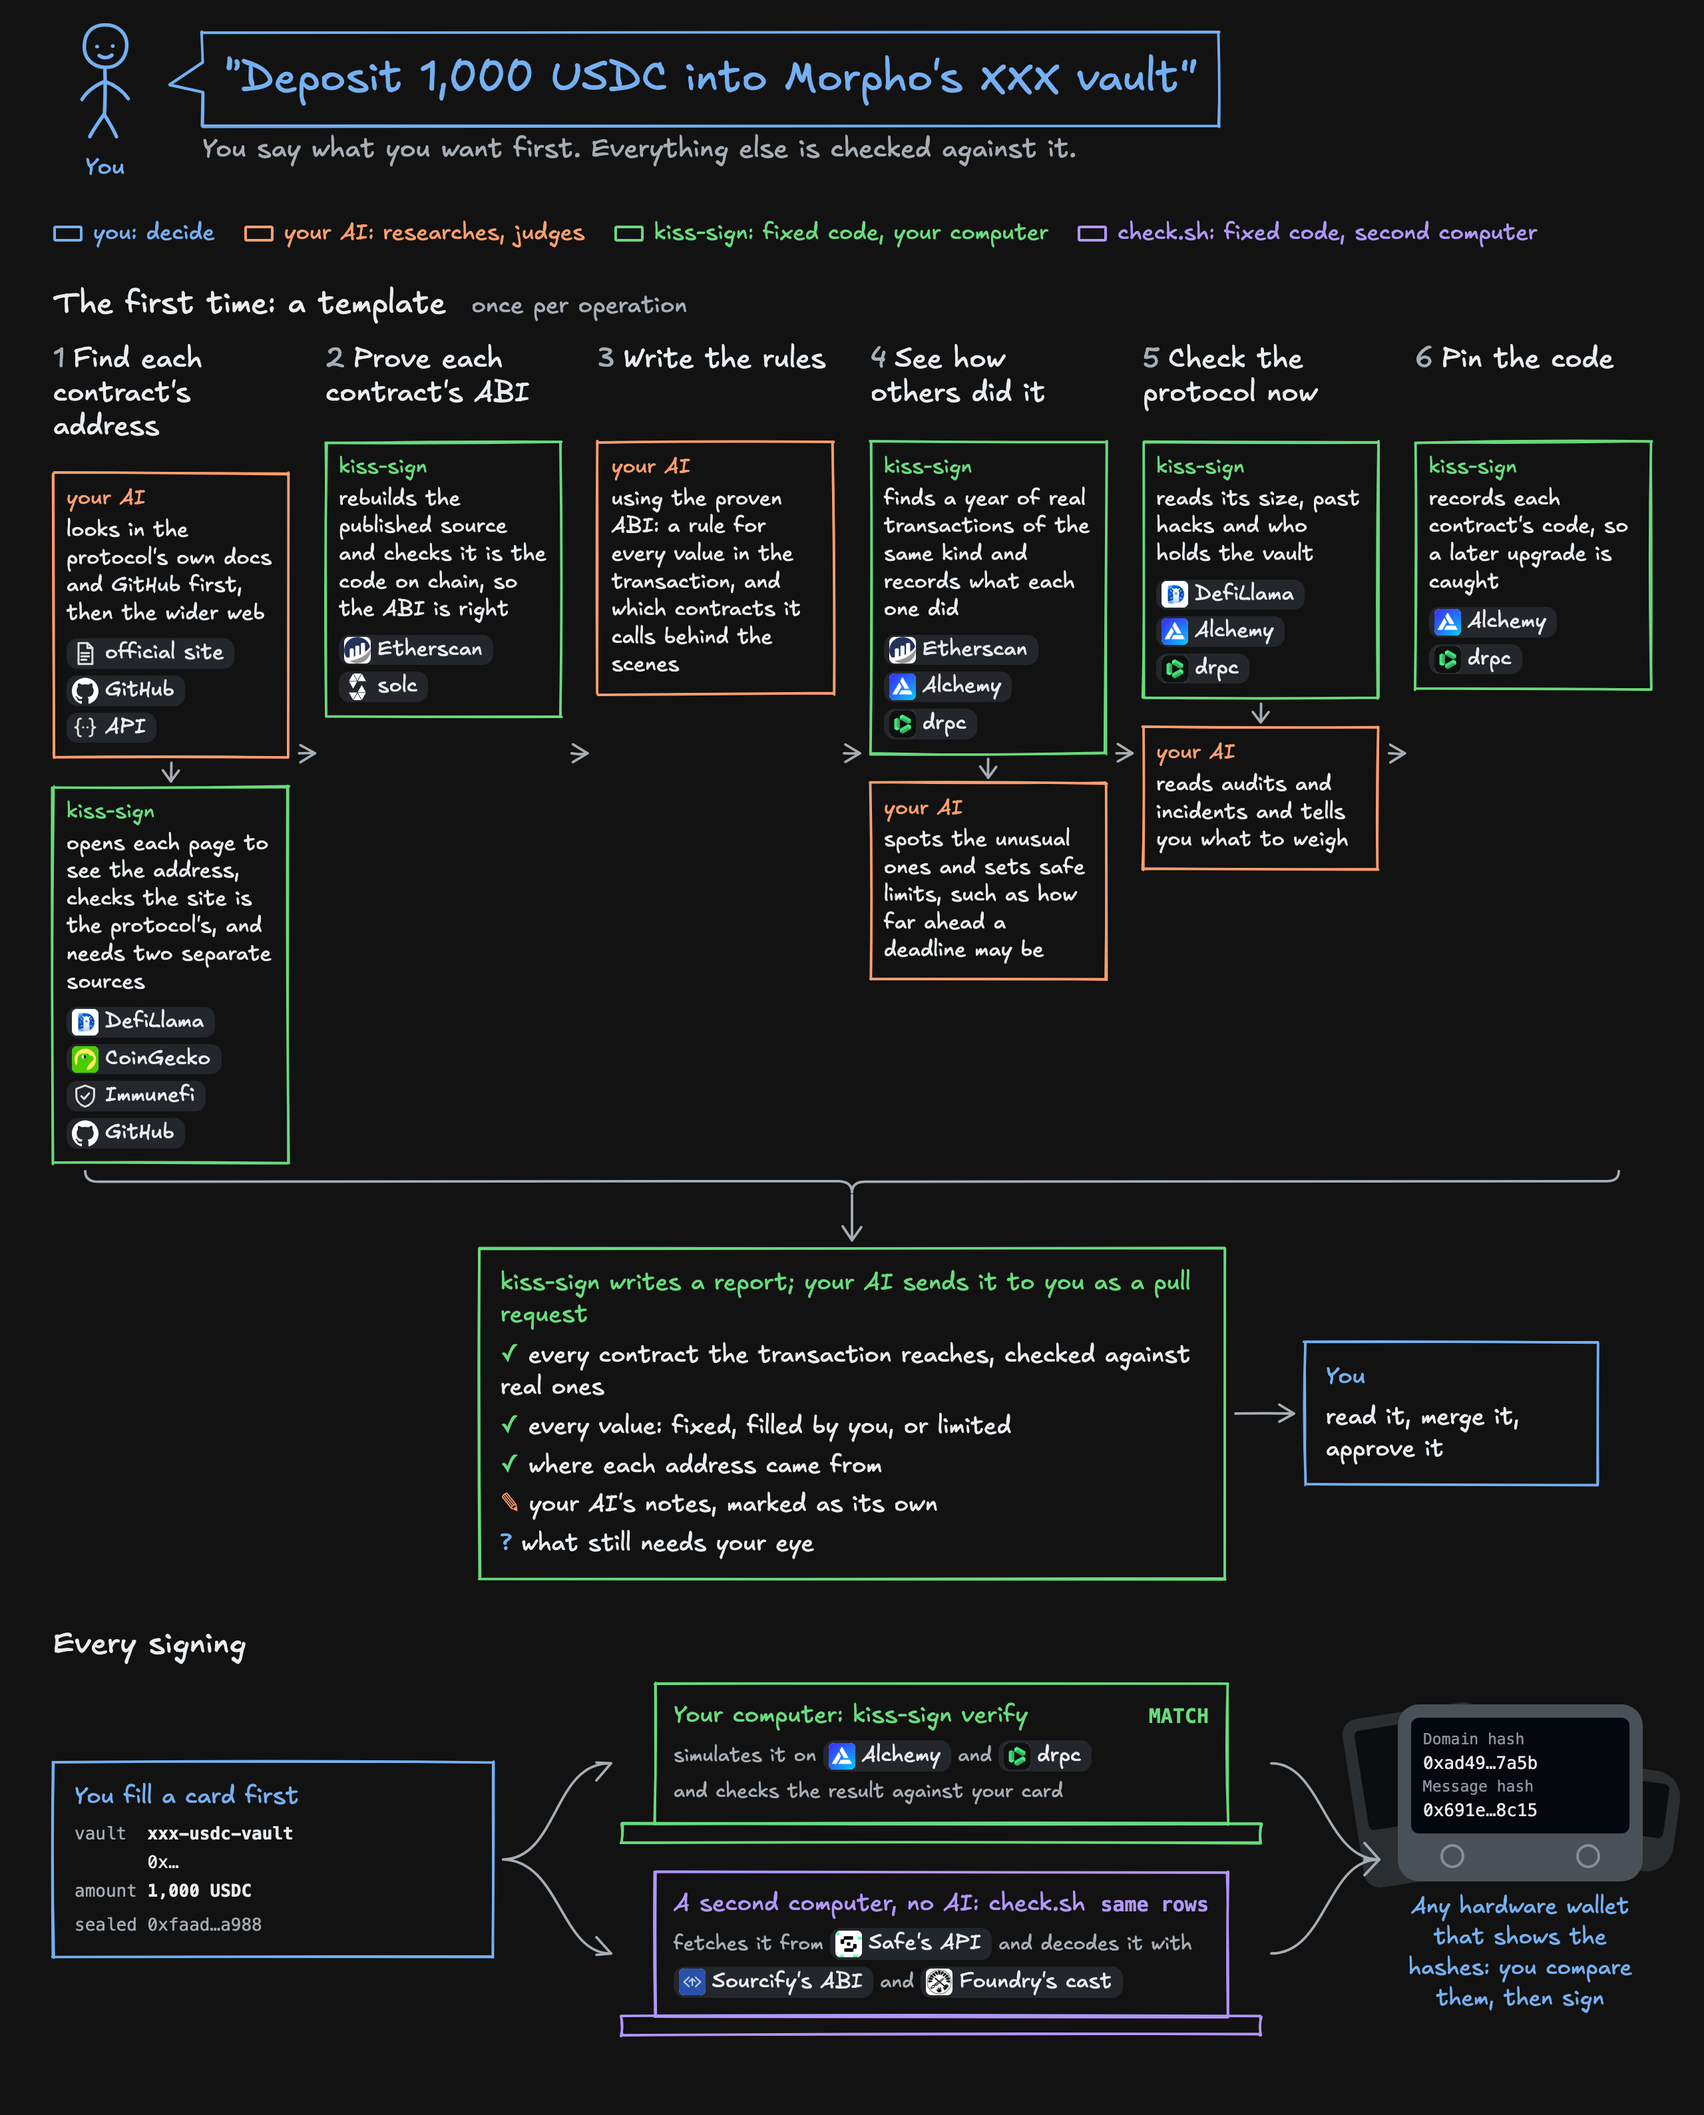
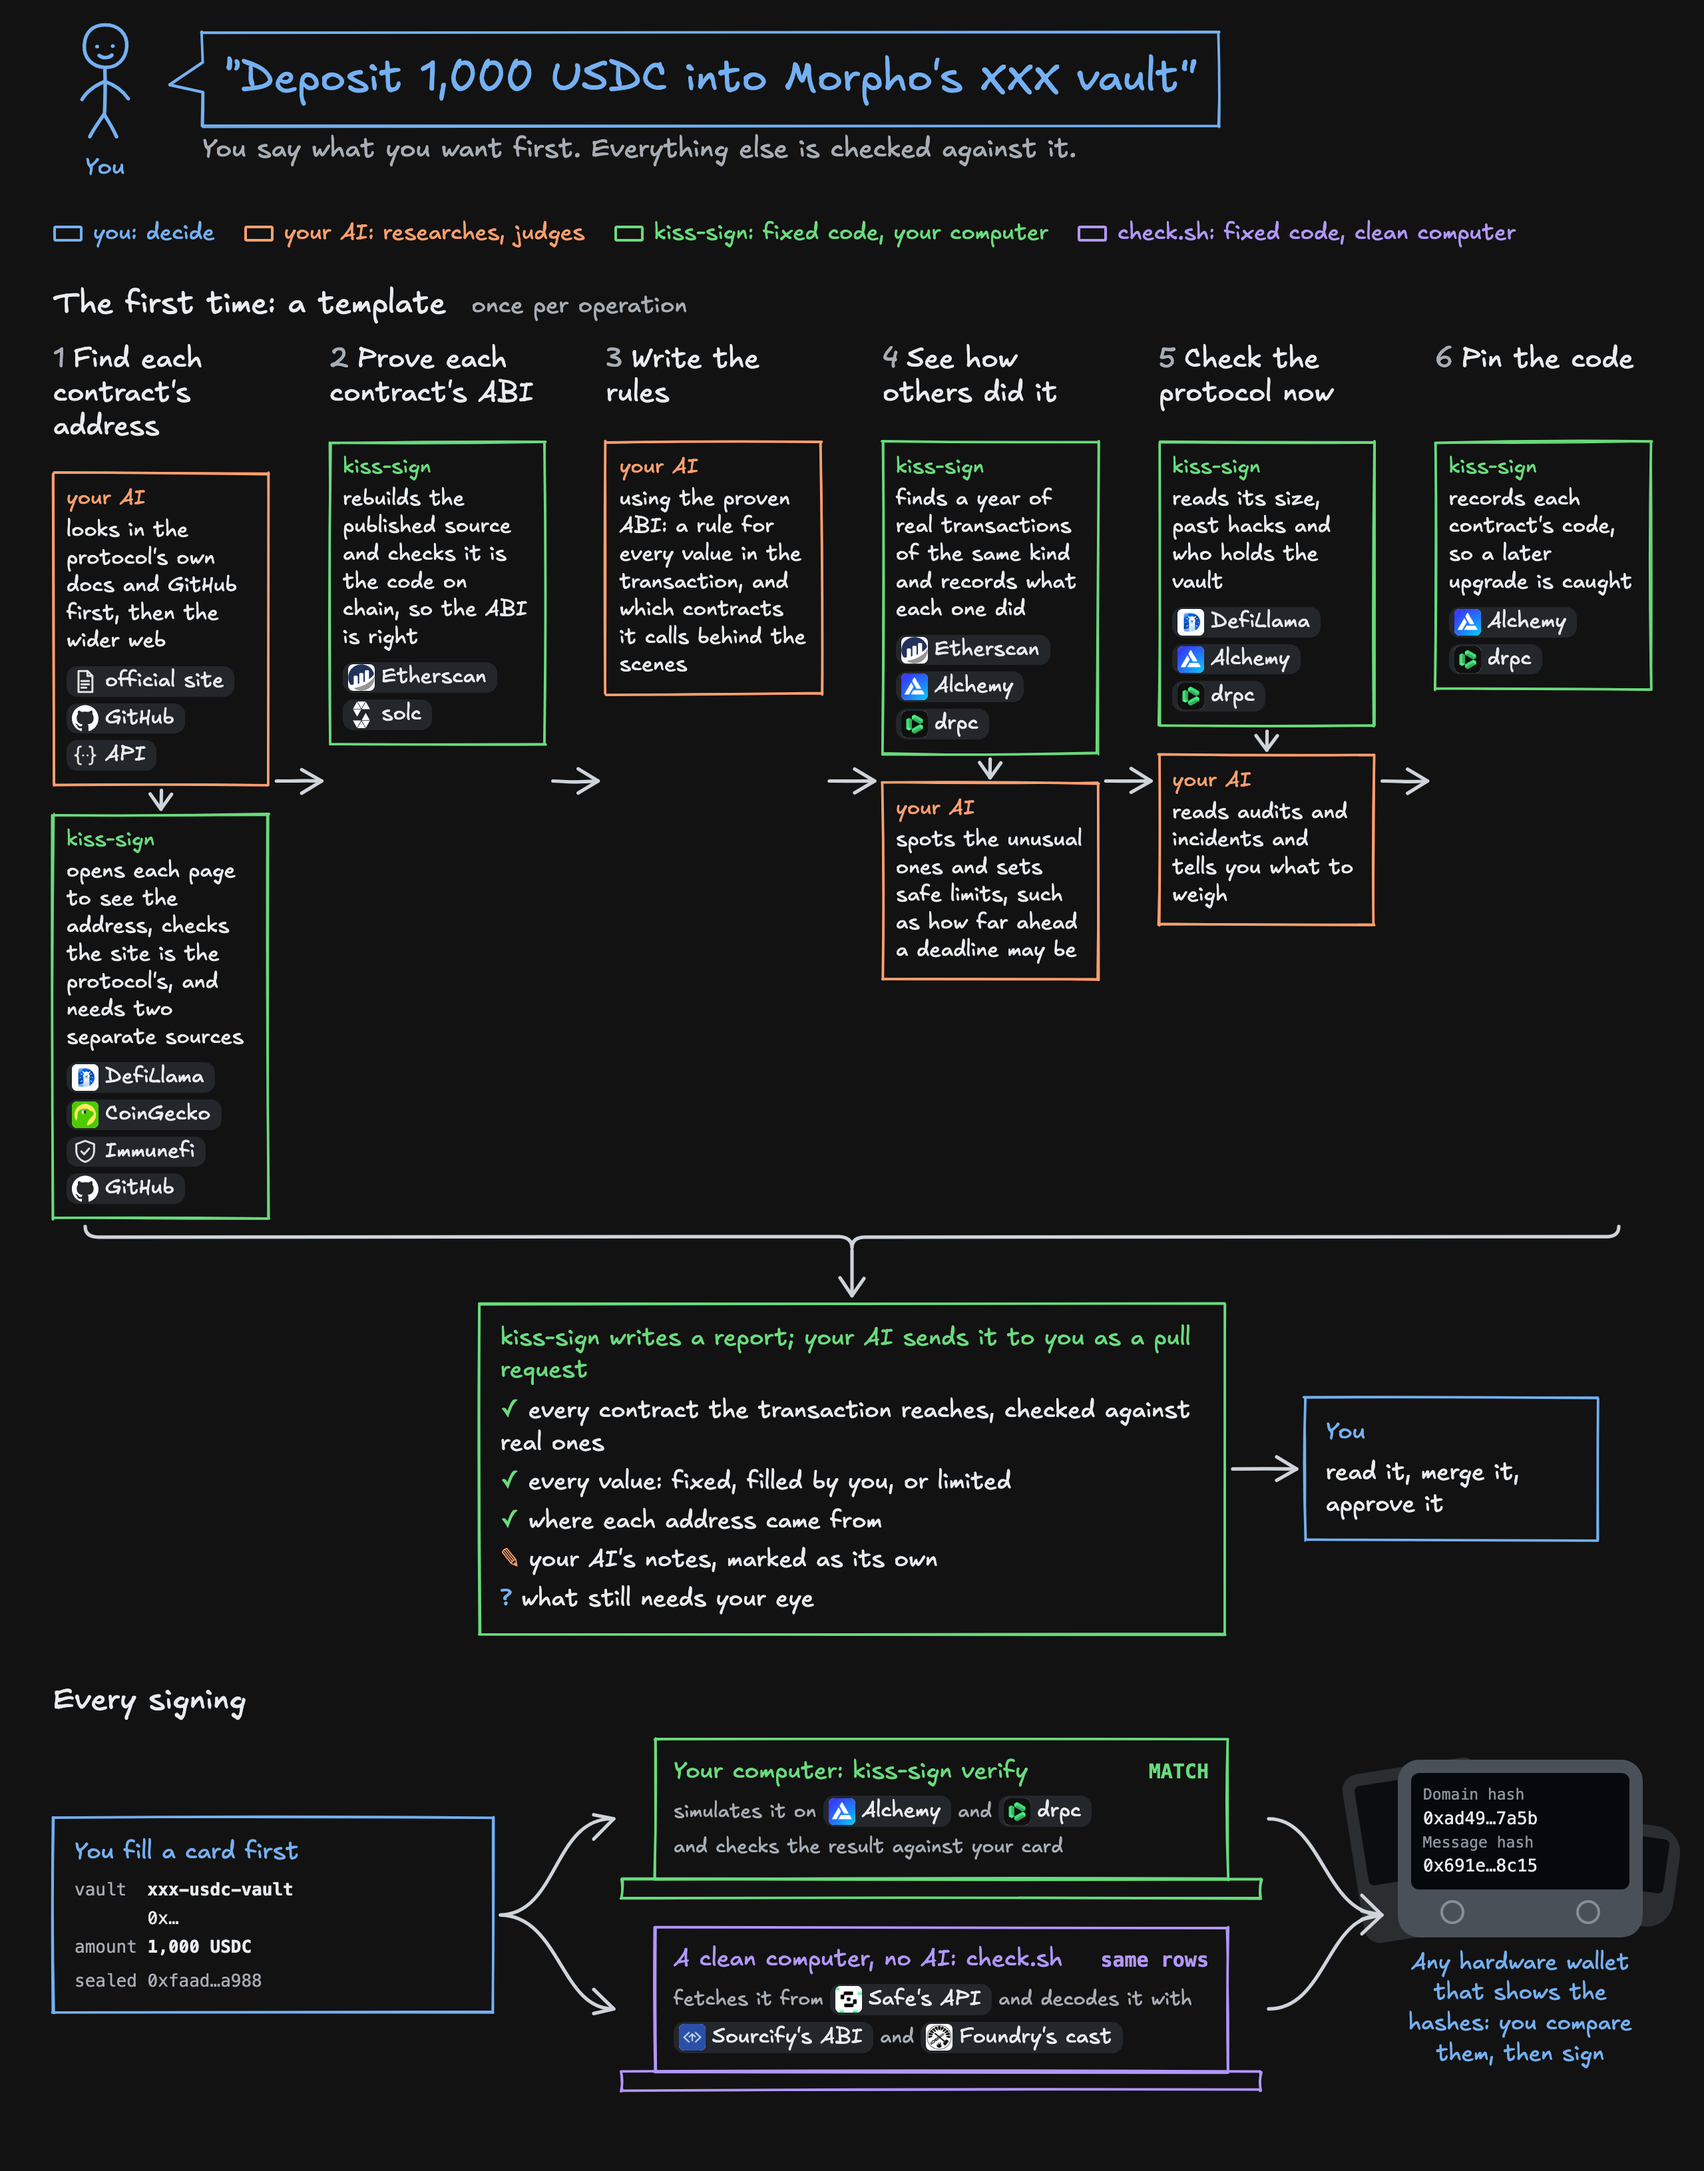
README overview: bolder, longer arrows; the check.sh computer is a clean one
Claude-Session: https://claude.ai/code/session_019EpkRikTD1KbjKp9L1wtSS

diff --git a/docs/diagrams/readme-overview.html b/docs/diagrams/readme-overview.html
@@ -48,7 +48,7 @@
   .lg.plain { padding-left: 8px; }
   :root.dark .lg img.mono-logo { filter: invert(1); background: transparent; }
 
-  .chain .steps { display: grid; grid-template-columns: repeat(6, minmax(0, 1fr)); gap: 28px; margin-top: 6px; }
+  .chain .steps { display: grid; grid-template-columns: repeat(6, minmax(0, 1fr)); gap: 46px; margin-top: 6px; }
   .step { display: flex; flex-direction: column; gap: 22px; }
   .step .t { font-size: 21px; line-height: 1.2; min-height: 52px; }
   .step .n { color: var(--muted); margin-right: 6px; }
@@ -114,7 +114,7 @@
     </div>
   </div>
 
-  <div class="legend"><span class="you"><i></i>you: decide</span><span class="ai"><i></i>your AI: researches, judges</span><span class="prog"><i></i>kiss-sign: fixed code, your computer</span><span class="ind"><i></i>check.sh: fixed code, second computer</span></div>
+  <div class="legend"><span class="you"><i></i>you: decide</span><span class="ai"><i></i>your AI: researches, judges</span><span class="prog"><i></i>kiss-sign: fixed code, your computer</span><span class="ind"><i></i>check.sh: fixed code, clean computer</span></div>
 
   <h2>The first time: a template <b>once per operation</b></h2>
   <div class="chain" id="chain">
@@ -152,7 +152,7 @@
         <div class="sk base"></div>
       </div>
       <div class="pc ind" id="pc2">
-        <div class="sk scr"><div class="who">A second computer, no AI: check.sh<span class="verdict">same rows</span></div>
+        <div class="sk scr"><div class="who">A clean computer, no AI: check.sh<span class="verdict">same rows</span></div>
           <div class="line"><span class="note">fetches it from</span><span class="lg"><img src="logos/safe.jpg" alt="">Safe's API</span><span class="note">and decodes it with</span><span class="lg"><img src="logos/sourcify.jpg" alt="">Sourcify's ABI</span><span class="note">and</span><span class="lg"><img src="logos/foundry.png" alt="">Foundry's cast</span></div></div>
         <div class="sk base"></div>
       </div>
@@ -189,7 +189,7 @@ Promise.all([document.fonts.ready, new Promise((ok) => (document.readyState === 
     for (const width of [1.9, 1.1])
       draw([stroke(x, y, x + w, y), stroke(x + w, y, x + w, y + h), stroke(x + w, y + h, x, y + h), stroke(x, y + h, x, y)].join(' '), c, width);
   });
-  const ink = root.getPropertyValue('--muted').trim();
+  const ink = root.getPropertyValue('--line').trim();
   {
     const b = document.getElementById('bubble').getBoundingClientRect(), c = colorOf(document.getElementById('bubble'));
     const x = b.left + scrollX, y = b.top + scrollY + b.height / 2;
@@ -198,29 +198,29 @@ Promise.all([document.fonts.ready, new Promise((ok) => (document.readyState === 
   }
   const arrow = (a, b) => {
     const ra = document.getElementById(a).getBoundingClientRect(), rb = document.getElementById(b).getBoundingClientRect();
-    const [x1, y1, x2, y2] = [ra.right + 8, ra.top + ra.height / 2 + scrollY, rb.left - 8, rb.top + rb.height / 2 + scrollY];
+    const [x1, y1, x2, y2] = [ra.right + 6 + scrollX, ra.top + ra.height / 2 + scrollY, rb.left - 6 + scrollX, rb.top + rb.height / 2 + scrollY];
     const cx = (x1 + x2) / 2;
-    draw(`M${x1} ${y1} C${cx + rnd() * 6} ${y1 + rnd() * 3}, ${cx + rnd() * 6} ${y2 + rnd() * 3}, ${x2} ${y2}`, ink, 1.9);
-    const dy = (y2 - y1) * 0.08, s = 11;
-    draw(`M${x2 - s} ${y2 - s * 0.6 - dy + rnd()} L${x2} ${y2} L${x2 - s} ${y2 + s * 0.6 - dy + rnd()}`, ink, 1.9);
+    draw(`M${x1} ${y1} C${cx + rnd() * 6} ${y1 + rnd() * 3}, ${cx + rnd() * 6} ${y2 + rnd() * 3}, ${x2} ${y2}`, ink, 2.6);
+    const dy = (y2 - y1) * 0.08, s = 15;
+    draw(`M${x2 - s} ${y2 - s * 0.6 - dy + rnd()} L${x2} ${y2} L${x2 - s} ${y2 + s * 0.6 - dy + rnd()}`, ink, 2.6);
   };
   document.querySelectorAll('.step').forEach((st) => {
     const ps = [...st.querySelectorAll('.part')];
     for (let i = 1; i < ps.length; i++) {
       const a = ps[i - 1].getBoundingClientRect(), b = ps[i].getBoundingClientRect();
       const x = a.left + a.width / 2 + scrollX, y1 = a.bottom + 4 + scrollY, y2 = b.top - 4 + scrollY;
-      draw(`M${x + rnd()} ${y1} L${x + rnd()} ${y2}`, ink, 1.9);
-      draw(`M${x - 6} ${y2 - 8 + rnd()} L${x} ${y2} L${x + 6} ${y2 - 8 + rnd()}`, ink, 1.9);
+      draw(`M${x + rnd()} ${y1} L${x + rnd()} ${y2}`, ink, 2.6);
+      draw(`M${x - 8} ${y2 - 11 + rnd()} L${x} ${y2} L${x + 8} ${y2 - 11 + rnd()}`, ink, 2.6);
     }
   });
   [['s1', 's2'], ['s2', 's3'], ['s3', 's4'], ['s4', 's5'], ['s5', 's6'], ['report', 'merge']].forEach(([a, b]) => arrow(a, b));
   {
     const steps = document.querySelector('.steps').getBoundingClientRect(), rb = document.getElementById('report').getBoundingClientRect();
     const y = steps.bottom + 14 + scrollY, l = steps.left + 24 + scrollX, r = steps.right - 24 + scrollX, mid = (l + r) / 2;
-    draw(`M${l} ${y - 8} Q${l} ${y} ${l + 10} ${y} L${mid - 10} ${y + rnd()} Q${mid} ${y} ${mid} ${y + 8} Q${mid} ${y} ${mid + 10} ${y} L${r - 10} ${y + rnd()} Q${r} ${y} ${r} ${y - 8}`, ink, 1.9);
+    draw(`M${l} ${y - 8} Q${l} ${y} ${l + 10} ${y} L${mid - 10} ${y + rnd()} Q${mid} ${y} ${mid} ${y + 8} Q${mid} ${y} ${mid + 10} ${y} L${r - 10} ${y + rnd()} Q${r} ${y} ${r} ${y - 8}`, ink, 2.6);
     const x2 = rb.left + rb.width / 2 + scrollX, y2 = rb.top - 6 + scrollY;
-    draw(`M${mid} ${y + 10} C${mid} ${y + 30}, ${x2} ${y2 - 24}, ${x2} ${y2}`, ink, 1.9);
-    draw(`M${x2 - 7} ${y2 - 10 + rnd()} L${x2} ${y2} L${x2 + 7} ${y2 - 10 + rnd()}`, ink, 1.9);
+    draw(`M${mid} ${y + 10} C${mid} ${y + 30}, ${x2} ${y2 - 24}, ${x2} ${y2}`, ink, 2.6);
+    draw(`M${x2 - 9} ${y2 - 13 + rnd()} L${x2} ${y2} L${x2 + 9} ${y2 - 13 + rnd()}`, ink, 2.6);
   }
   [ ['card', 'pc1'], ['card', 'pc2'], ['pc1', 'wallet'], ['pc2', 'wallet']].forEach(([a, b]) => arrow(a, b));
   document.body.dataset.height = Math.ceil(document.body.scrollHeight);

diff --git a/README.md b/README.md
@@ -16,7 +16,7 @@ Signing tools today show you a transaction and ask whether it looks right. Your 
 
 <picture>
   <source media="(prefers-color-scheme: dark)" srcset="docs/readme/overview-dark.png">
-  <img src="docs/readme/overview.png" alt="kiss-sign at a glance. You say what you want. Once per operation, your AI finds each contract's address and kiss-sign confirms it in two separate sources; kiss-sign proves each contract's ABI by checking its published source is the code on chain; using that ABI, your AI writes a rule for every value in the transaction and lists the contracts it calls behind the scenes; kiss-sign finds a year of real transactions of the same kind and your AI sets safe limits from them; kiss-sign reads the protocol's size, past hacks and holders and your AI weighs audits and incidents; kiss-sign records each contract's code so a later upgrade is caught, and writes a report, with your AI's notes marked, which your AI sends you as a pull request to read, merge and approve. At every signing you fill a card; kiss-sign verify simulates the transaction on two providers and checks it against the card; a second computer decodes it on its own with check.sh; and you compare the hashes on your hardware wallet before signing.">
+  <img src="docs/readme/overview.png" alt="kiss-sign at a glance. You say what you want. Once per operation, your AI finds each contract's address and kiss-sign confirms it in two separate sources; kiss-sign proves each contract's ABI by checking its published source is the code on chain; using that ABI, your AI writes a rule for every value in the transaction and lists the contracts it calls behind the scenes; kiss-sign finds a year of real transactions of the same kind and your AI sets safe limits from them; kiss-sign reads the protocol's size, past hacks and holders and your AI weighs audits and incidents; kiss-sign records each contract's code so a later upgrade is caught, and writes a report, with your AI's notes marked, which your AI sends you as a pull request to read, merge and approve. At every signing you fill a card; kiss-sign verify simulates the transaction on two providers and checks it against the card; a clean computer with no AI decodes it on its own with check.sh; and you compare the hashes on your hardware wallet before signing.">
 </picture>
 
 ## Contents
